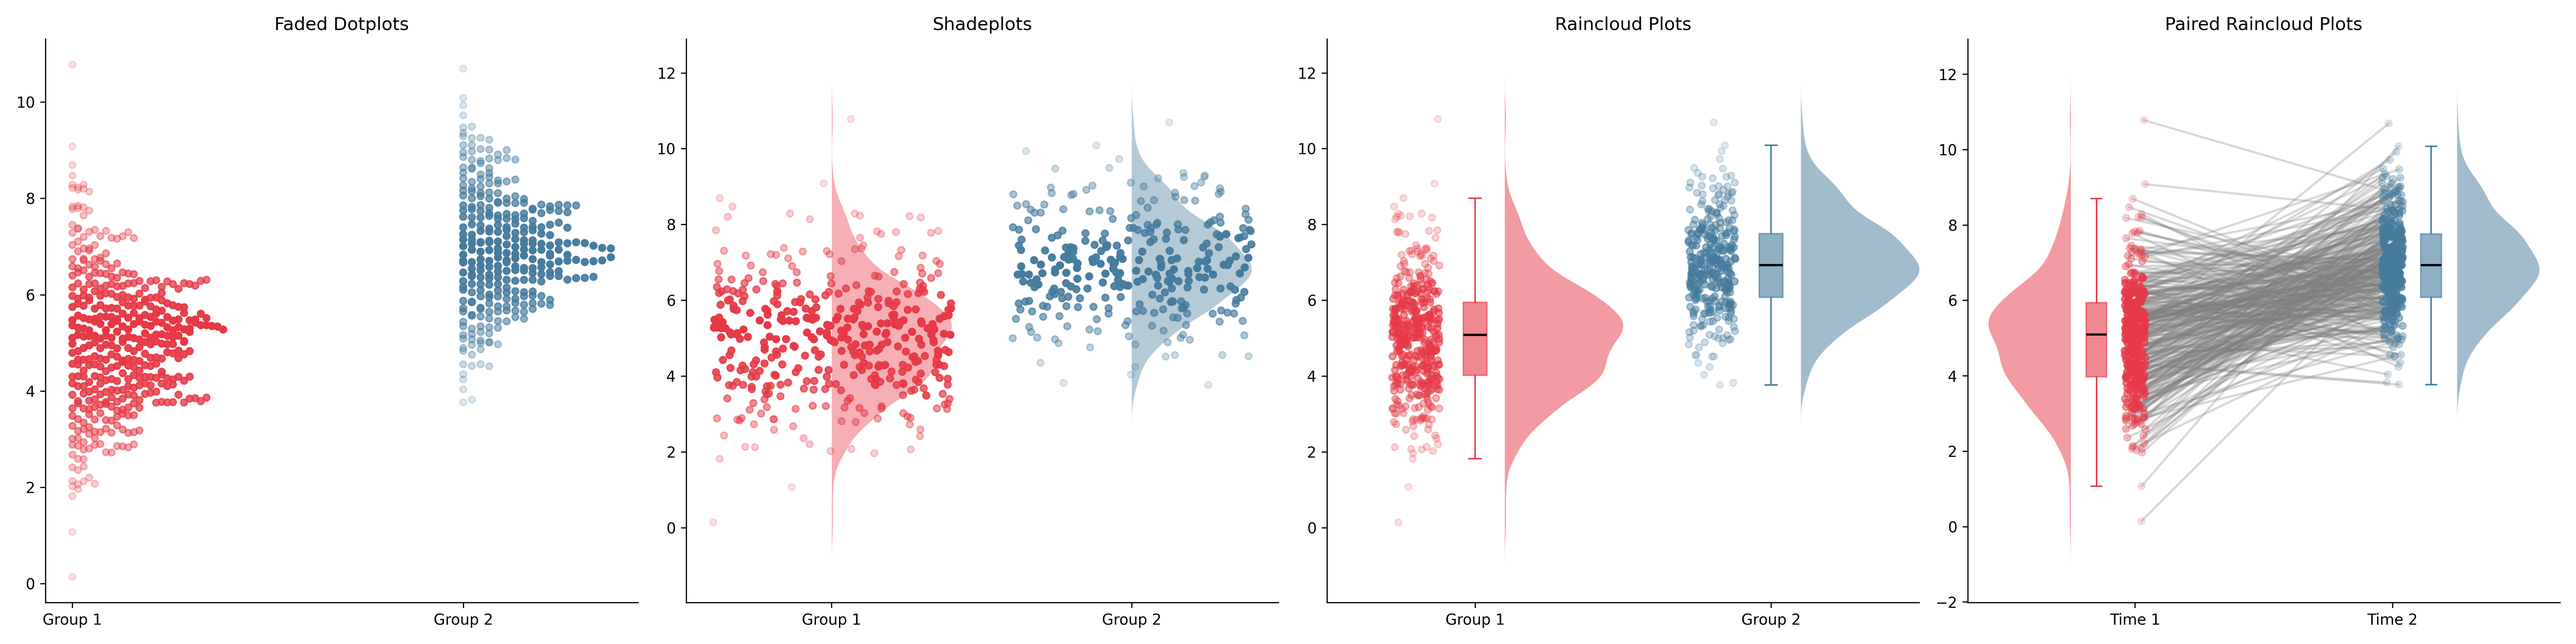
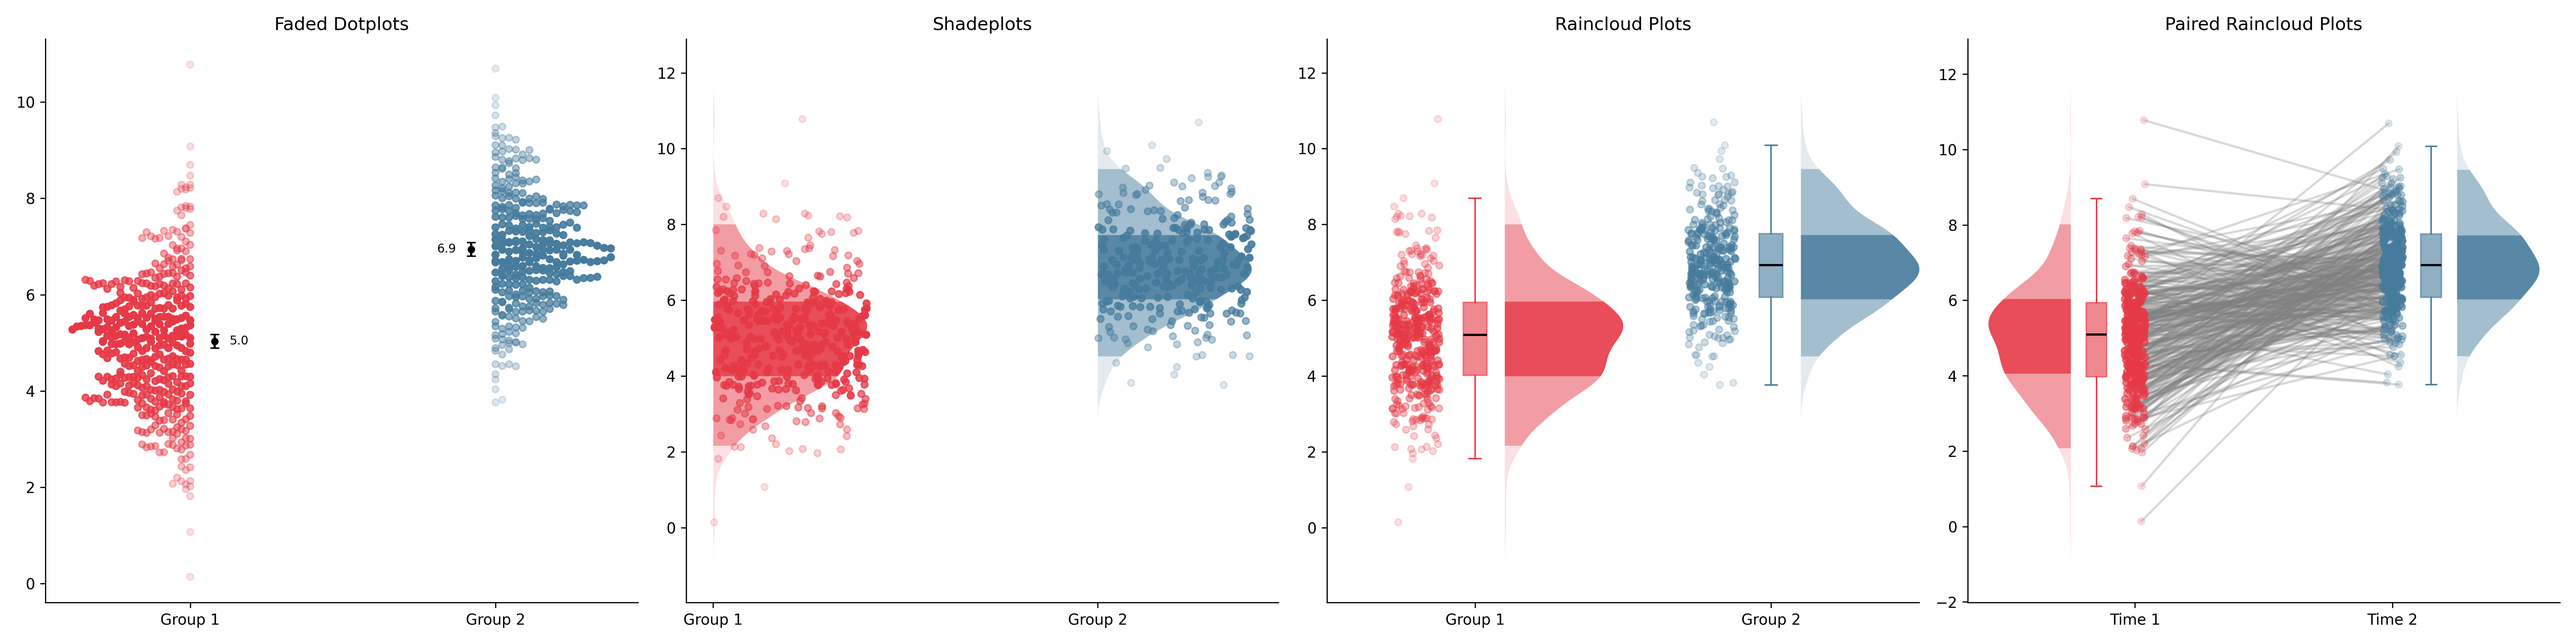
fix(plots): reverse mean offset direction in faded_dotplot
fix(plots): reposition mean and text closer to scatter baseline in faded_dotplot

fix(plots): pull mean/text markers closer to scatter center in faded_dotplot and force axis limits

fix(plots): adjusting the limitis in faded_dotplot

diff --git a/paircloud/plots.py b/paircloud/plots.py
@@ -235,13 +235,15 @@ def faded_dotplot(
         sem = np.std(data, ddof=1) / np.sqrt(n) if n > 1 else 0
         ci_95 = 1.96 * sem
 
-        offset_dir = -1 if side in ('negative', 'bottom', 'left') else 1
+        sign = 1 if side in ('negative', 'bottom', 'left') else -1
         if side in ('positive', 'negative', 'top', 'bottom', 'left', 'right'):
-            mean_pos = position + offset_dir * width * 0.15
-            text_pos = position + offset_dir * width * 0.35
+            mean_pos = position + sign * width * 0.1
+            text_pos = position + sign * width * 0.2
         else:
-            mean_pos = position - width * 0.6
-            text_pos = mean_pos - width * 0.15
+            mean_pos = position - width * 0.3
+            text_pos = position - width * 0.45
+
+        pad_pos = text_pos + sign * width * 0.05
 
         if orientation == 'h':
             ax.errorbar(
@@ -265,6 +267,7 @@ def faded_dotplot(
                 va='center',
                 zorder=10,
             )
+            ax.plot(mean_val, pad_pos, color='none', alpha=0)
         else:
             ax.errorbar(
                 mean_pos,
@@ -287,6 +290,7 @@ def faded_dotplot(
                 va='center',
                 zorder=10,
             )
+            ax.plot(pad_pos, mean_val, color='none', alpha=0)
 
     return ax
 

diff --git a/examples/demo.py b/examples/demo.py
@@ -15,7 +15,7 @@ def main():
     # 1. Faded Dotplot
     ax = axes[0]
     paircloud.faded_dotplot(
-        group1, ax=ax, color='#E63946', position=1, orientation='v', side='right', show_mean=True
+        group1, ax=ax, color='#E63946', position=1, orientation='v', side='left', show_mean=True
     )
     paircloud.faded_dotplot(
         group2, ax=ax, color='#457B9D', position=2, orientation='v', side='right', show_mean=True
